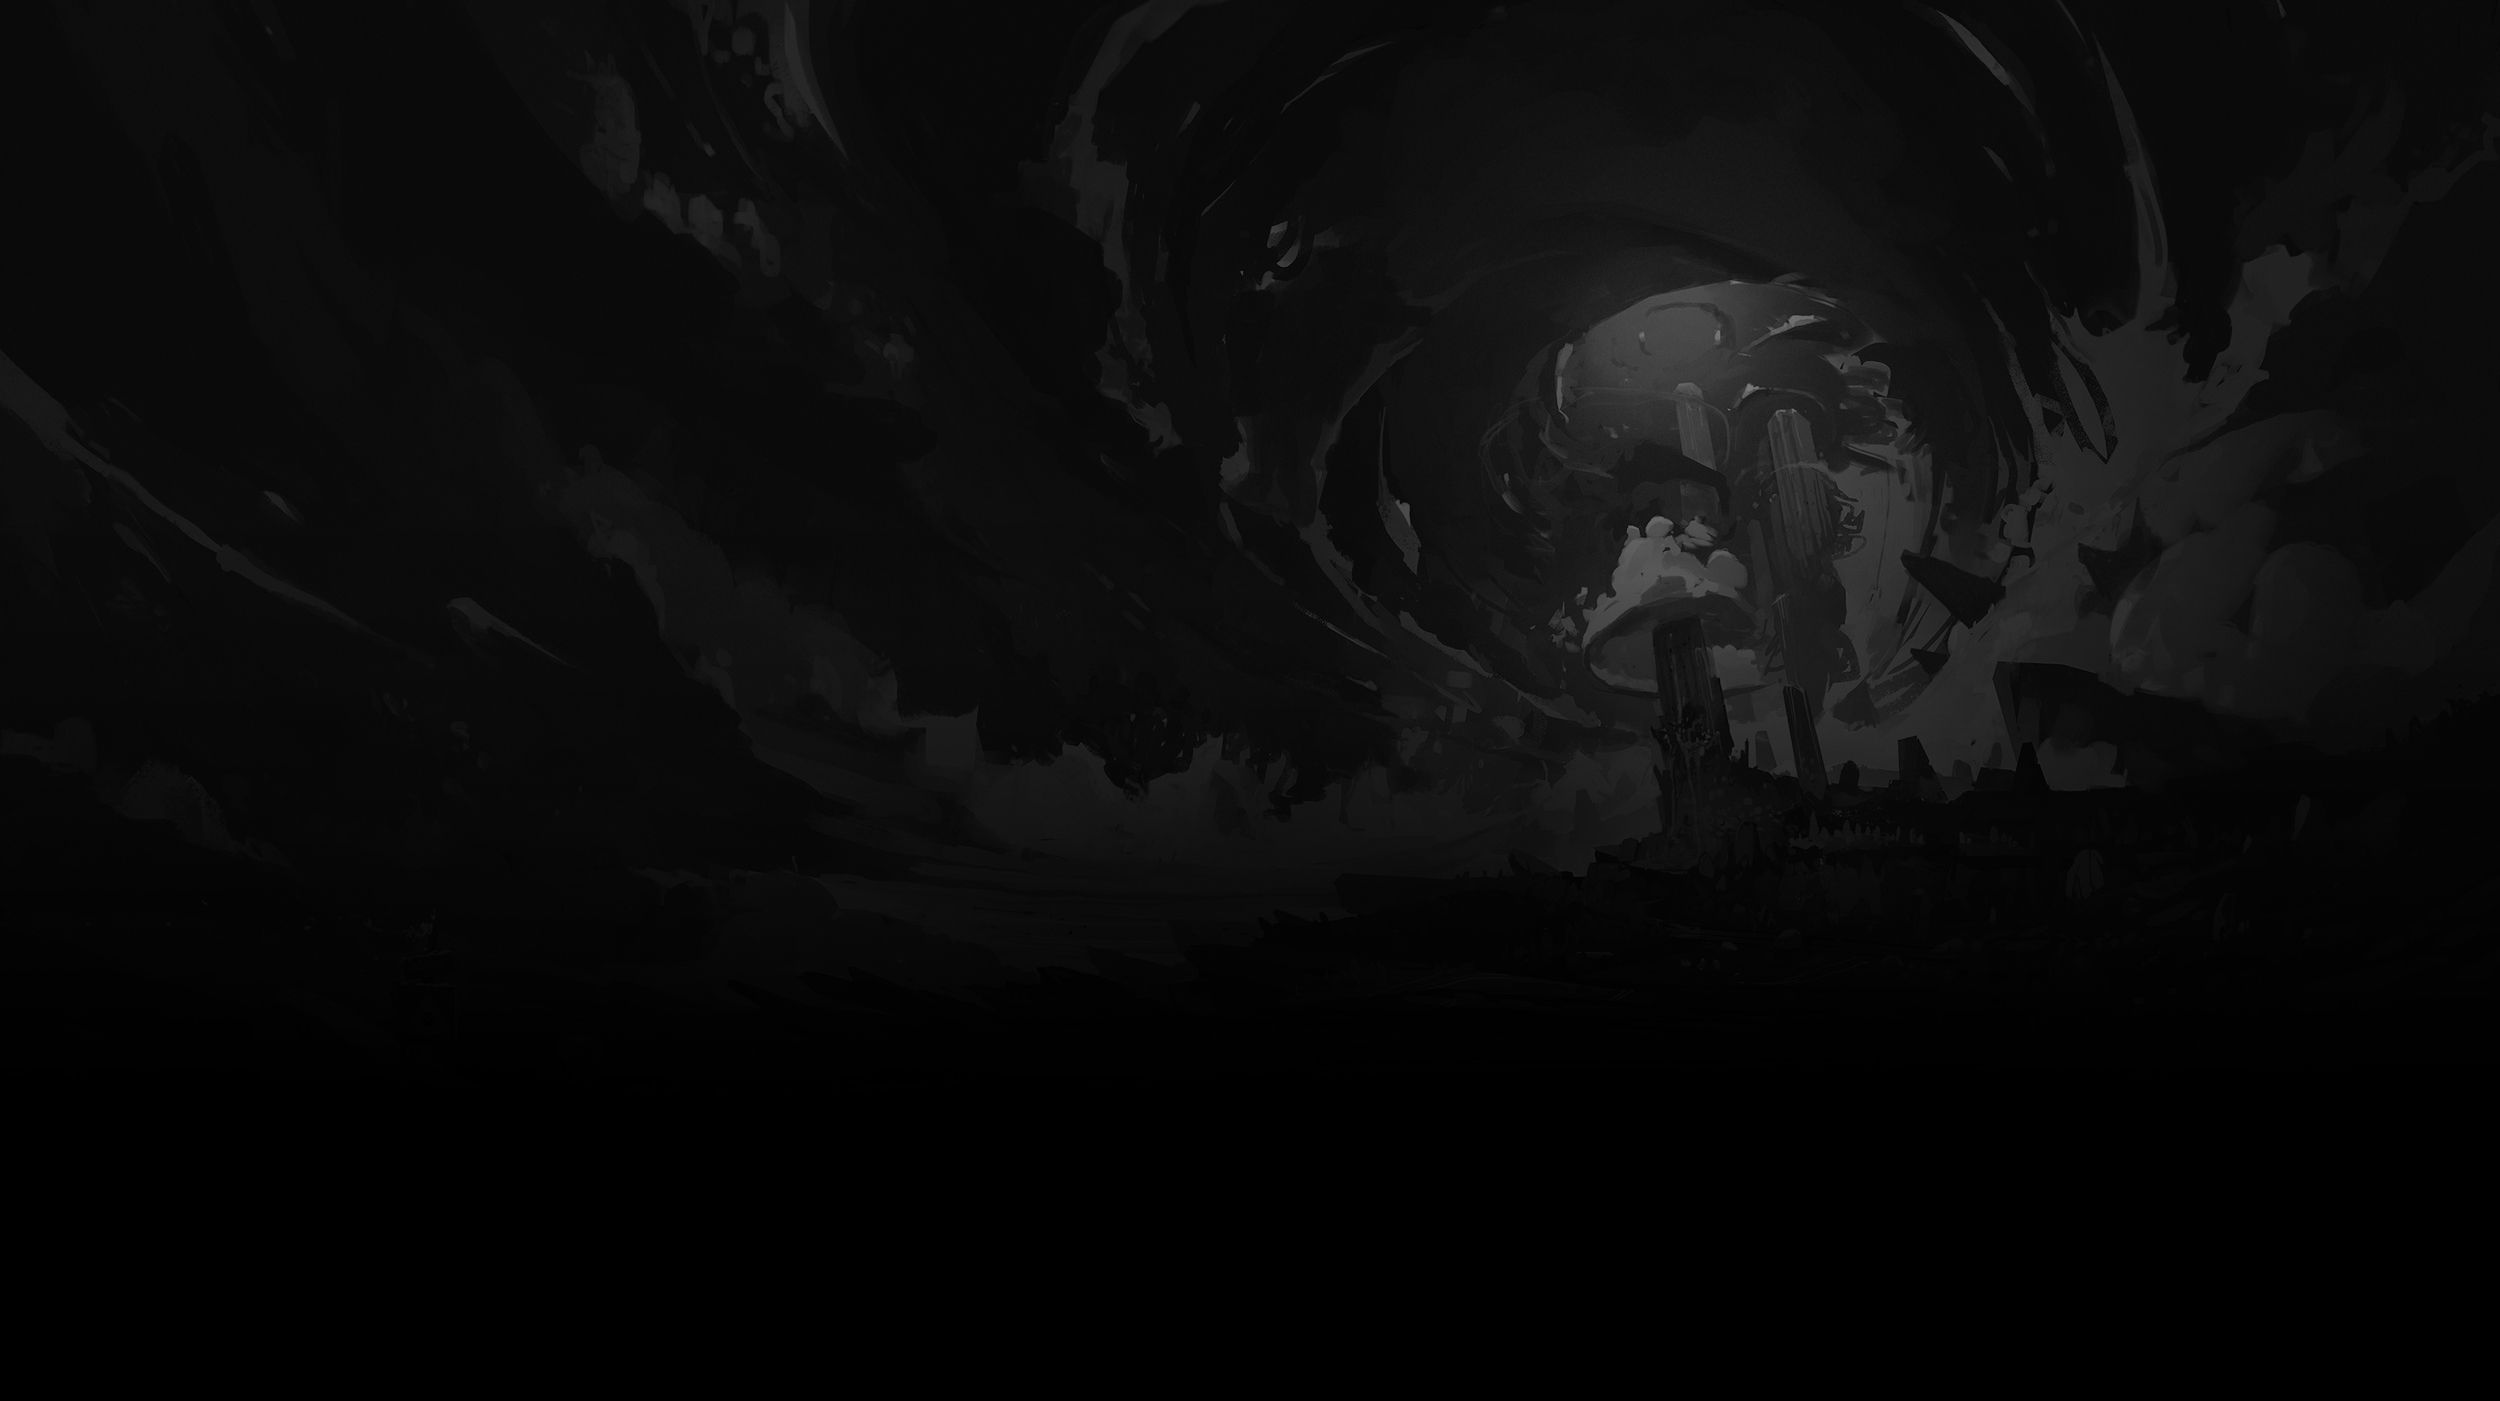
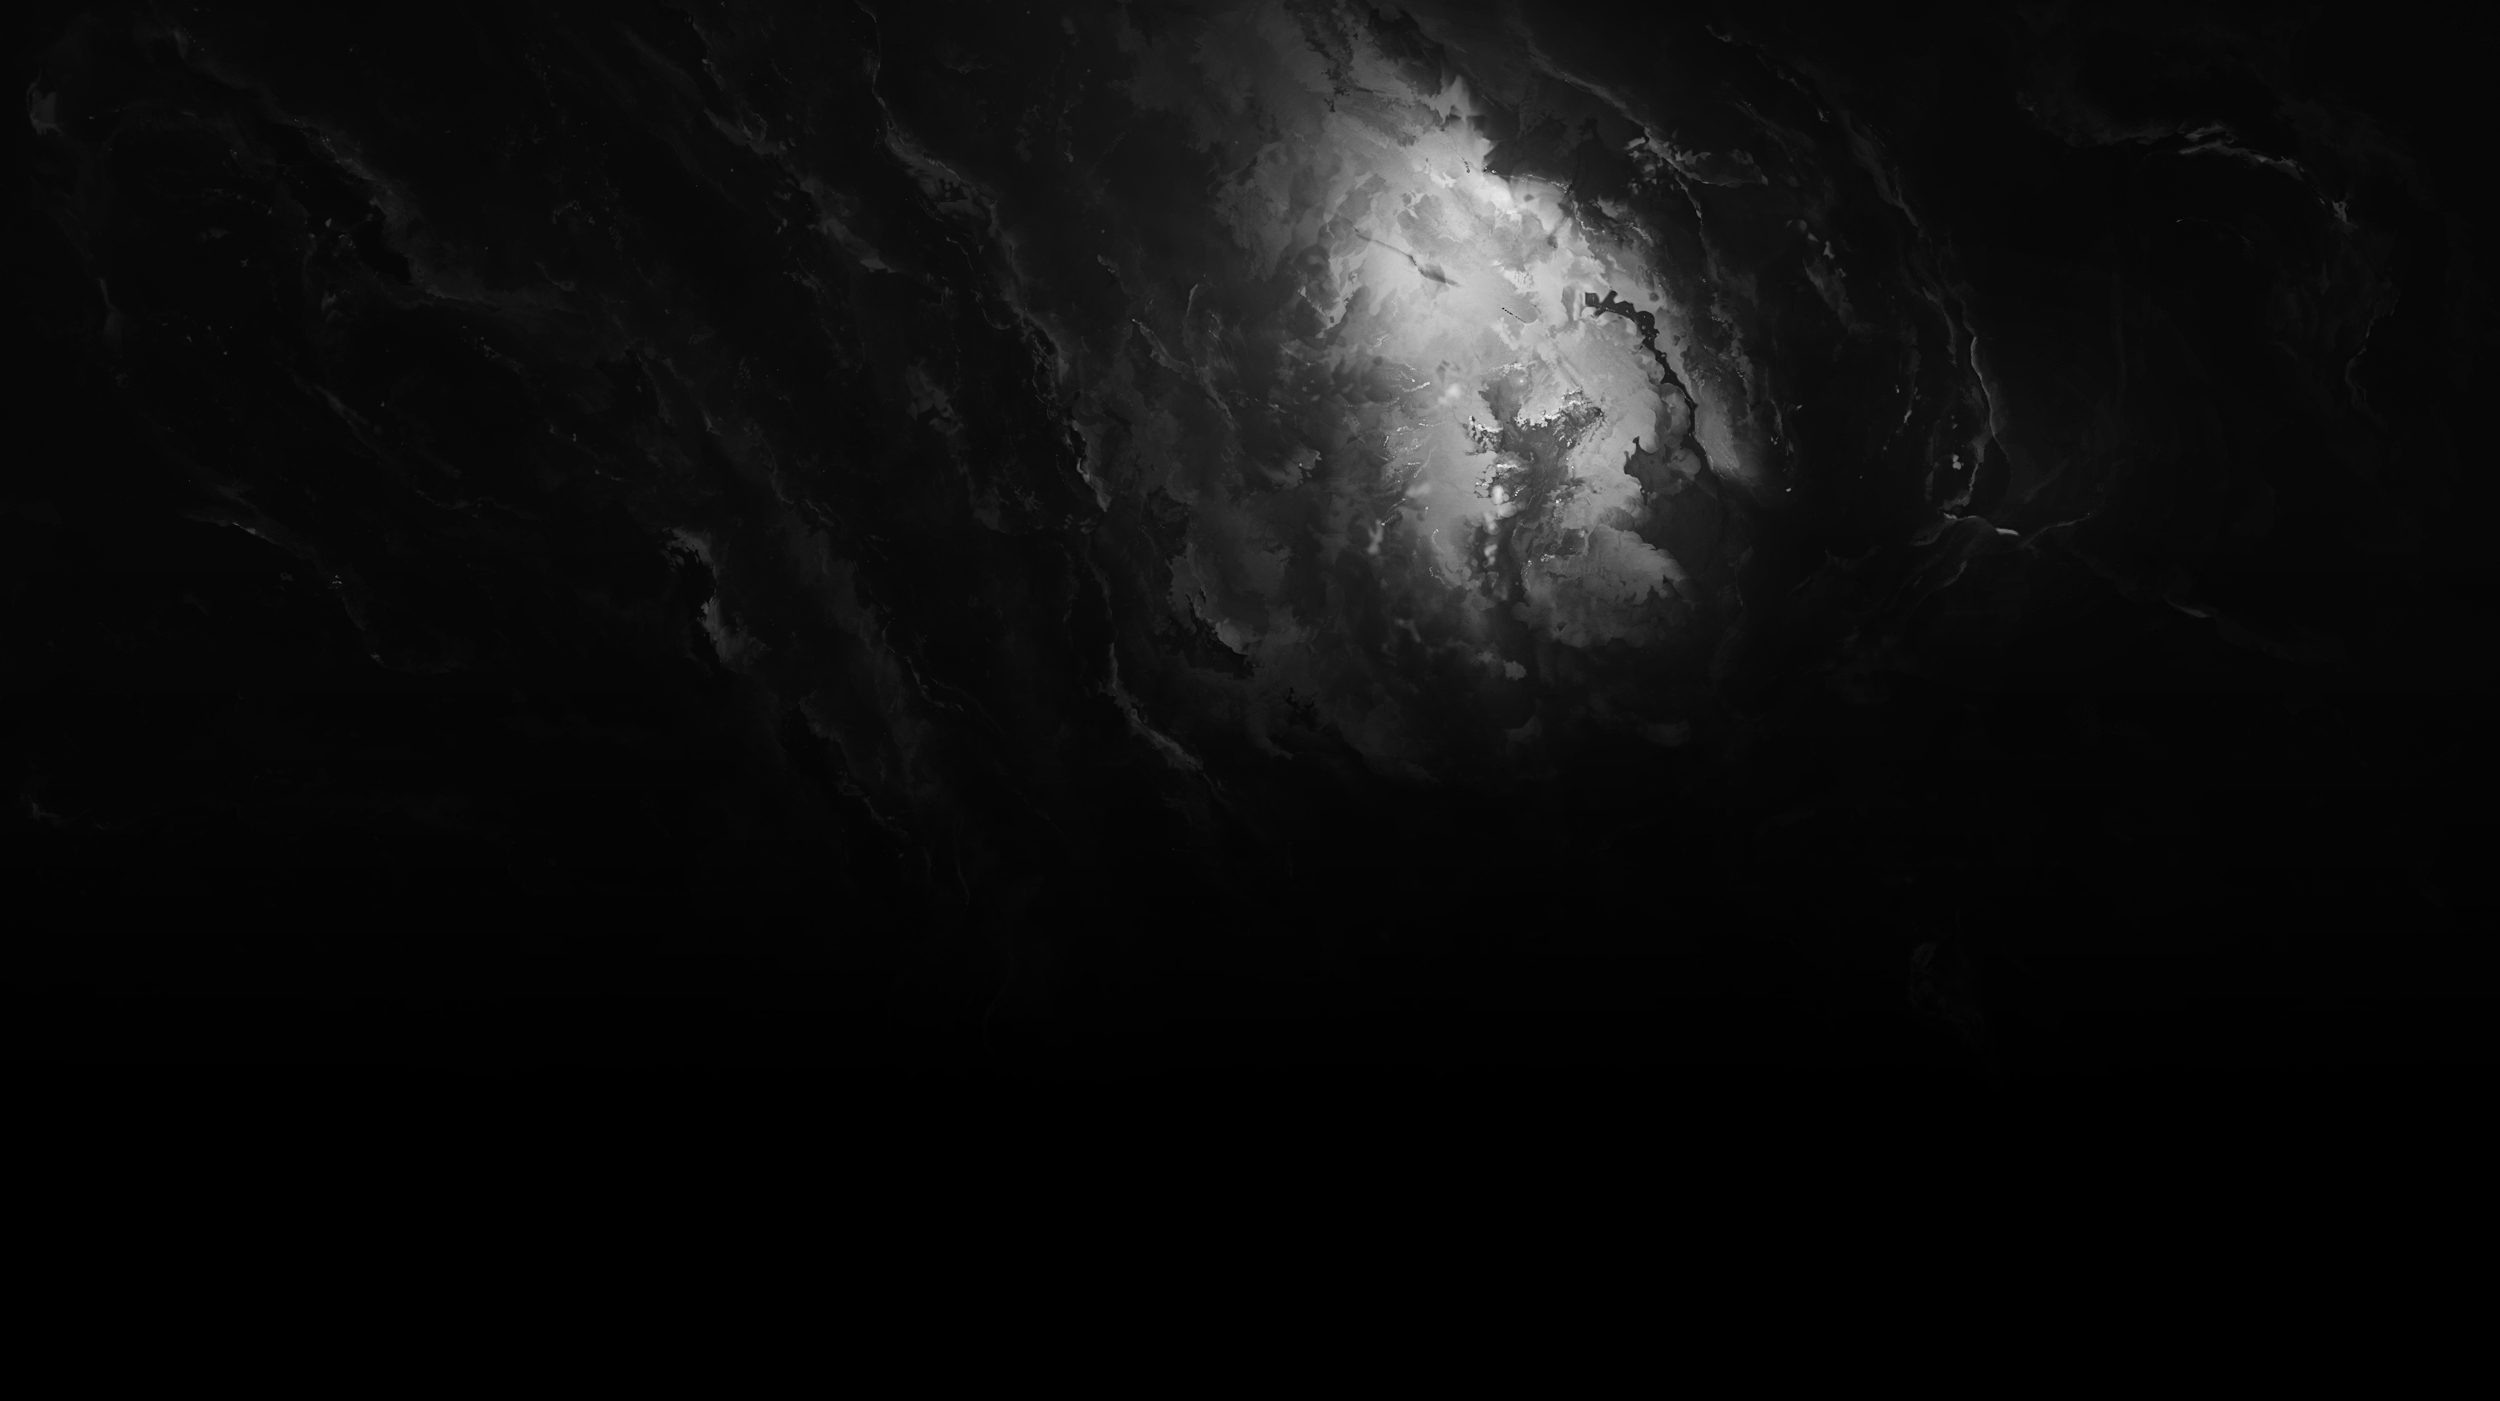
style: change home background and animate

diff --git a/styles/pages/home.css b/styles/pages/home.css
@@ -2,13 +2,30 @@
   display: flex;
   flex-direction: column;
   justify-content: flex-end;
-  padding: 0 9rem 0 9rem;
+  padding: 0 9rem;
   margin: 0 0 10rem 0;
-  background-image: url(../../assets/img/background2.jpg);
+  background-image: url(../../assets/img/background.jpg);
   background-size: contain;
   background-repeat: no-repeat;
   background-color: #000;
-  animation: fadeInBackground 3s ease-in forwards;
+  animation: fadeInBackground 3s ease-in forwards, zoomBackground 20s ease-in-out infinite;
+  background-position: center;
+  overflow: hidden;
+}
+
+#home::after {
+  content: "";
+  position: absolute;
+  top: 8%;
+  left: 50%;
+  width: 400px;
+  height: 400px;
+  border-radius: 50%;
+  background: radial-gradient(circle, rgb(255, 255, 255) 0%, transparent 70%);
+  filter: blur(80px);
+  mix-blend-mode: screen;
+  opacity: 0.6;
+  animation: glowBreath 6s ease-in-out infinite;
 }
 
 @keyframes fadeInBackground {
@@ -19,6 +36,28 @@
   100% {
     opacity: 1;
     background-color: #000;
+  }
+}
+
+@keyframes zoomBackground {
+  0%,
+  100% {
+    background-size: 100%;
+  }
+  50% {
+    background-size: 105%;
+  }
+}
+
+@keyframes glowBreath {
+  0%,
+  100% {
+    transform: scale(1);
+    opacity: 0.5;
+  }
+  50% {
+    transform: scale(1.15);
+    opacity: 0.8;
   }
 }
 
@@ -46,7 +85,7 @@
 #home-title {
   display: flex;
   color: var(--primary-color);
-  font-family: 'Space Grotesk';
+  font-family: "Space Grotesk";
   font-size: 7rem;
   font-weight: 900;
 }
@@ -374,7 +413,6 @@
   color: #222;
   background-color: var(--primary-color);
 }
-
 
 #contact {
   display: flex;
